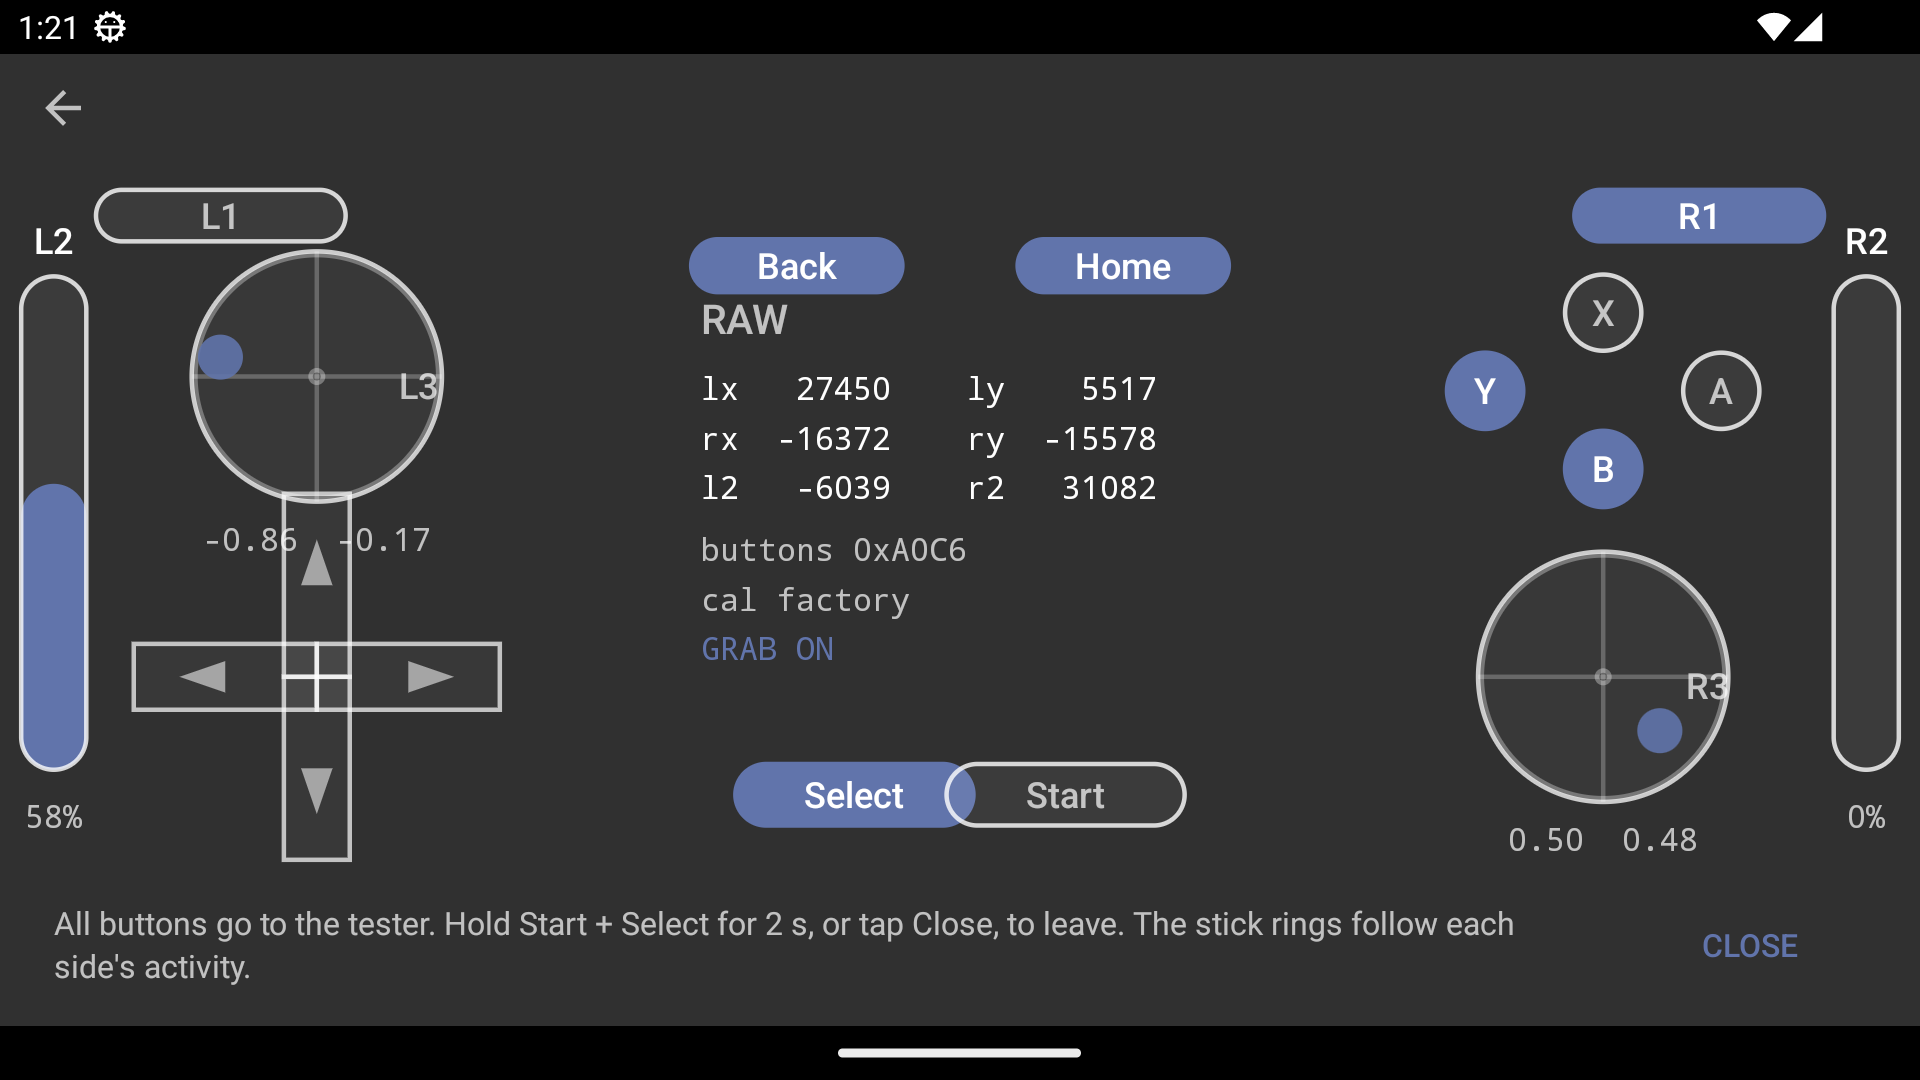
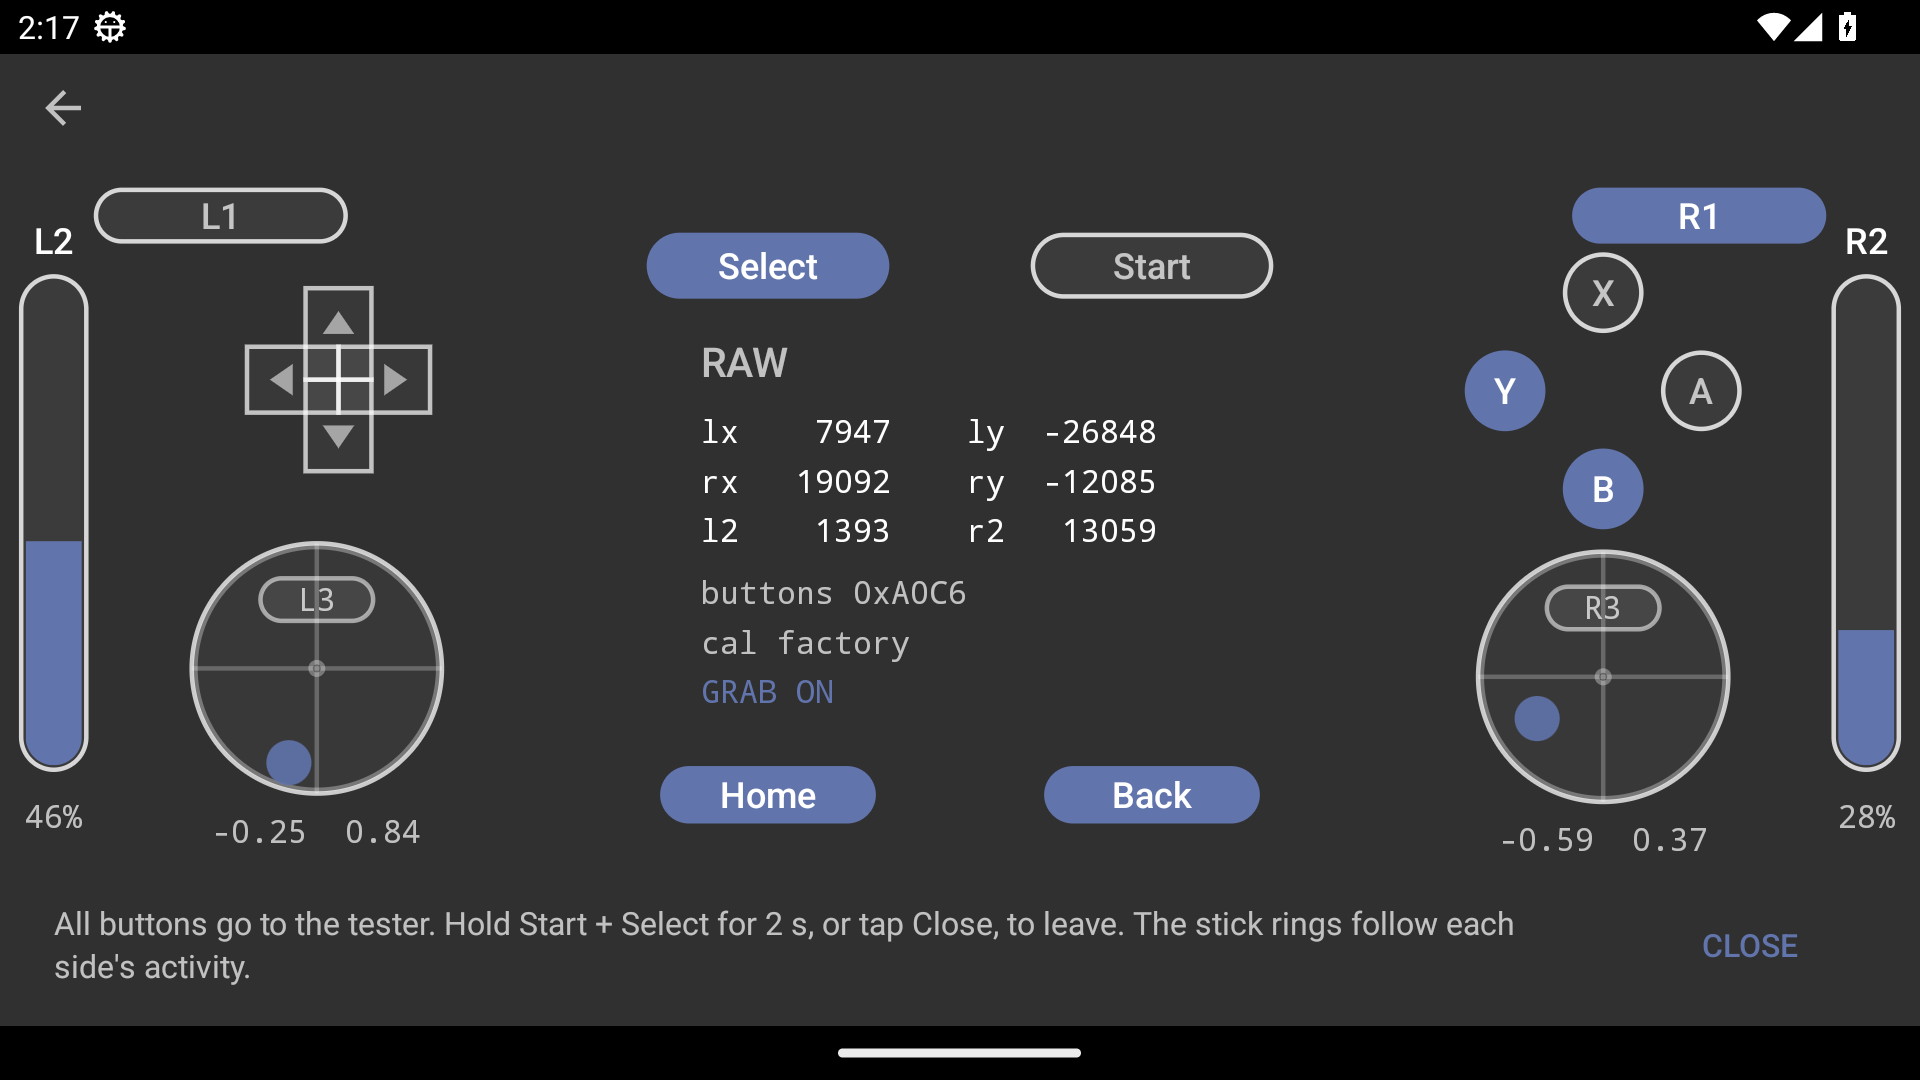
fix(parts): square ABXY, editor-sized D-pad, stick caps, clipped trigger fill (#104)
Five drawing corrections from comparing the web editor with the RP5:

- D-pad: r is the half-span (the editor draws 2*r*H across).  Use
  a = r*h, arm = a/2 and shortHalf = a*0.36, with the arrows at +-arm, so the
  app's total span is 2a instead of 4*r*h.
- ABXY: the tester view is not 16:9, so per-axis scaling made the diamond
  rectangular.  Derive the group centre and one common pixel offset from the
  four layout circles and draw X/Y/A/B on a square diamond (each keeps its own
  radius).  Layout JSON unchanged.
- L3/R3: remove the label beside the stick; draw a capsule inside the stick top
  (0.9r x 0.34r at cy-0.55r), L3/R3 centred, accent-filled with the primary
  text colour while THUMBL/THUMBR is held.
- L2/R2: clip the fill to the inset inner bar and draw it as a plain rectangle
  from the bottom; any value > 0 keeps a 2 dp sliver, 0 % is empty, the outline
  stays on top, and small values stay inside instead of poking out.
- System buttons: the orchestrator's JSON already has Select/Start on the top
  row and Home/Back on the bottom; the view follows those keys and labels.

GRAB, input mapping, LED feedback, the Close/Start+Select exit and the bottom
hint are untouched.  Docs and light/dark screenshots updated.

Fixes #104

diff --git a/docs/parts-controller.md b/docs/parts-controller.md
@@ -1,7 +1,7 @@
 # AshFall Parts: controller tester and calibration wizard v2
 
-Follow-ups to `docs/parts.md` for the user tests of 2026-11-14 (issues **#84**
-and **#101**, contract `docs/phase5.md` §6.2/§6.3).  This page documents the
+Follow-ups to `docs/parts.md` for the user tests of 2026-11-14 (issues **#84**,
+**#101**, **#103** and **#104**, contract `docs/phase5.md` §6.2/§6.3).  This page documents the
 controller package only; the rest of AshFall Parts (root entry, fan, lighting,
 QS tiles) is described in `docs/parts.md`.
 
@@ -18,6 +18,10 @@ QS tiles) is described in `docs/parts.md`.
 | 4. "B, Back, Home, Select don't show" | The tester now sends `GRAB ON` on its raw-stream socket (§3).  Nothing is injected into uinput, so every button is only reported in the `RAW` mask and drawn.  Leaving: hold **Start + Select for 2 s** (progress bar under the pills) or tap **Close**.  The old "Select toggles the raw overlay" mode is gone; the raw values are always visible. |
 | 5. "Fun: light each side's LED ring with its activity" | `ashfall.ui.led_override` is published at <= 29 Hz (§4) and cleared on pause. |
 | 6. "Calibration waits for Start" | The wizard's timed steps were replaced by Start-paced steps (§5). |
+| 7. #104: "the app's D-pad is twice the editor's size" | `drawDpad` treated `r` as the offset to each arrow, so the total span was `4*r*H`; it now uses `r` as the half-span (`a = r*h`, arrows at ±a/2), matching the editor's `2*r*H`. |
+| 8. #104: "ABXY distances are not equal" | The view is not 16:9, so scaling x by width and y by height made the diamond rectangular.  The group centre and a single pixel offset are computed from the four layout circles; X/Y/A/B are placed on a square diamond (distance X-B = Y-A = 2*off, diagonals off*sqrt(2)). |
+| 9. #104: "L3/R3 labels" | The side label is gone; each stick has a capsule inside its top (0.9r x 0.34r) labelled L3/R3, accent-filled with the primary text colour while the stick is clicked. |
+| 10. #104: "L2/R2 fill sticks out" | The fill is a plain rectangle from the bottom, clipped to the inner bar (2 dp inset): below 10 % it stays inside, any value > 0 keeps a 2 dp sliver, 0 % is empty, the outline is drawn on top. |
 
 ## 2. The button layout
 
@@ -150,29 +154,35 @@ Schema v1 (all values are floats, sizes relative to the view):
 {
   "version": 1,
   "controls": {
-    "left_stick":  {"x":0.165,"y":0.300,"r":0.175},
-    "right_stick": {"x":0.835,"y":0.720,"r":0.175},
-    "dpad":        {"x":0.165,"y":0.720,"r":0.128},
-    "button_x":    {"x":0.835,"y":0.2107,"r":0.0533},
-    "button_y":    {"x":0.7735,"y":0.320,"r":0.0533},
-    "button_a":    {"x":0.8965,"y":0.320,"r":0.0533},
-    "button_b":    {"x":0.835,"y":0.4293,"r":0.0533},
-    "l1":          {"x":0.115,"y":0.075,"w":0.130,"h":0.072},
-    "r1":          {"x":0.885,"y":0.075,"w":0.130,"h":0.072},
-    "l2":          {"x":0.028,"y":0.505,"w":0.0339,"h":0.690},
-    "r2":          {"x":0.972,"y":0.505,"w":0.0339,"h":0.690},
-    "back":        {"x":0.415,"y":0.145,"w":0.110,"h":0.074},
-    "home":        {"x":0.585,"y":0.145,"w":0.110,"h":0.074},
-    "select":      {"x":0.445,"y":0.885,"w":0.124,"h":0.086},
-    "start":       {"x":0.555,"y":0.885,"w":0.124,"h":0.086},
-    "status":      {"x":0.365,"y":0.240}
+    "left_stick": {"x": 0.165, "y": 0.708271, "r": 0.175},
+    "right_stick": {"x": 0.835, "y": 0.72, "r": 0.175},
+    "dpad": {"x": 0.17631, "y": 0.304459, "r": 0.128},
+    "button_x": {"x": 0.835, "y": 0.2107, "r": 0.0533},
+    "button_y": {"x": 0.7735, "y": 0.32, "r": 0.0533},
+    "button_a": {"x": 0.8965, "y": 0.32, "r": 0.0533},
+    "button_b": {"x": 0.835, "y": 0.4293, "r": 0.0533},
+    "l1": {"x": 0.115, "y": 0.075, "w": 0.13, "h": 0.072},
+    "r1": {"x": 0.885, "y": 0.075, "w": 0.13, "h": 0.072},
+    "l2": {"x": 0.028, "y": 0.505, "w": 0.0339, "h": 0.69},
+    "r2": {"x": 0.972, "y": 0.505, "w": 0.0339, "h": 0.69},
+    "back": {"x": 0.6, "y": 0.885, "w": 0.11, "h": 0.074},
+    "home": {"x": 0.4, "y": 0.885, "w": 0.11, "h": 0.074},
+    "select": {"x": 0.4, "y": 0.145, "w": 0.124, "h": 0.086},
+    "start": {"x": 0.6, "y": 0.145, "w": 0.124, "h": 0.086},
+    "status": {"x": 0.365, "y": 0.3}
   }
 }
 ```
 
 * `x`/`y` are the control's centre as a fraction of the view width/height.
 * Circles (`left_stick`, `right_stick`, `dpad`, `button_x/y/a/b`) use `r`, a
-  fraction of the view height; for the D-pad `r` is the arm length.
+  fraction of the view height.  For the D-pad `r` is **half of the total span**
+  (the editor draws `2*r*H` across).  The four face-button circles only define
+  the diamond's centre and one common pixel offset; the app keeps the diamond
+  square on the non-16:9 tester view, so their exact per-axis positions are not
+  honoured (each button keeps its own `r`).
+* The shipped `res/raw/tester_layout.json`, not this example, is the source of
+  truth; the values above are the last save applied for testing.
 * Rectangles (`l1`, `r1`, `l2`, `r2`, `back`, `home`, `select`, `start`) use the
   full `w` (fraction of width) and `h` (fraction of height), centred on `x`/`y`.
   L2/R2 are drawn as vertical bars whose fill is the exact analog value.
@@ -248,6 +258,16 @@ Soong module:
 * Light and dark: the controls, labels and accent were resolved through the
   theme (window background `#FAFAFA` vs `#000000`, outlines and fills visible in
   both).  Pure black uses the same attributes.
+* #104 geometry (emulator, shipped layout): the D-pad spans 183 px = `2*r*H`
+  (Up bbox 287..379, Left bbox 247..338, centre 339/380); X/B are 197 px apart
+  vertically and Y/A 196 px horizontally, with diagonals 138 px = 98*sqrt(2)
+  (square diamond, `off` 98.1); the L3/R3 caps are 116x46 px at
+  `cy - 0.55r` and fill with the accent when THUMBL/THUMBR is pressed, with no
+  side label; a 0 % trigger is empty, 34 % and 59 % fills stay inside the 4.5 px
+  (2 dp) inset bar with a straight top edge; Select/Start render in the top row
+  (`y` 0.145) and Home/Back in the bottom row (`y` 0.885) with their labels.
+  Screenshots refreshed (light: X/A, Start top; dark: Y/B, Select top,
+  Home/Back bottom).
 
 Not verified here: the RP5 hardware itself (owned by the native worker, and the
 device is serialised between workers).  The device checks to repeat are the real
